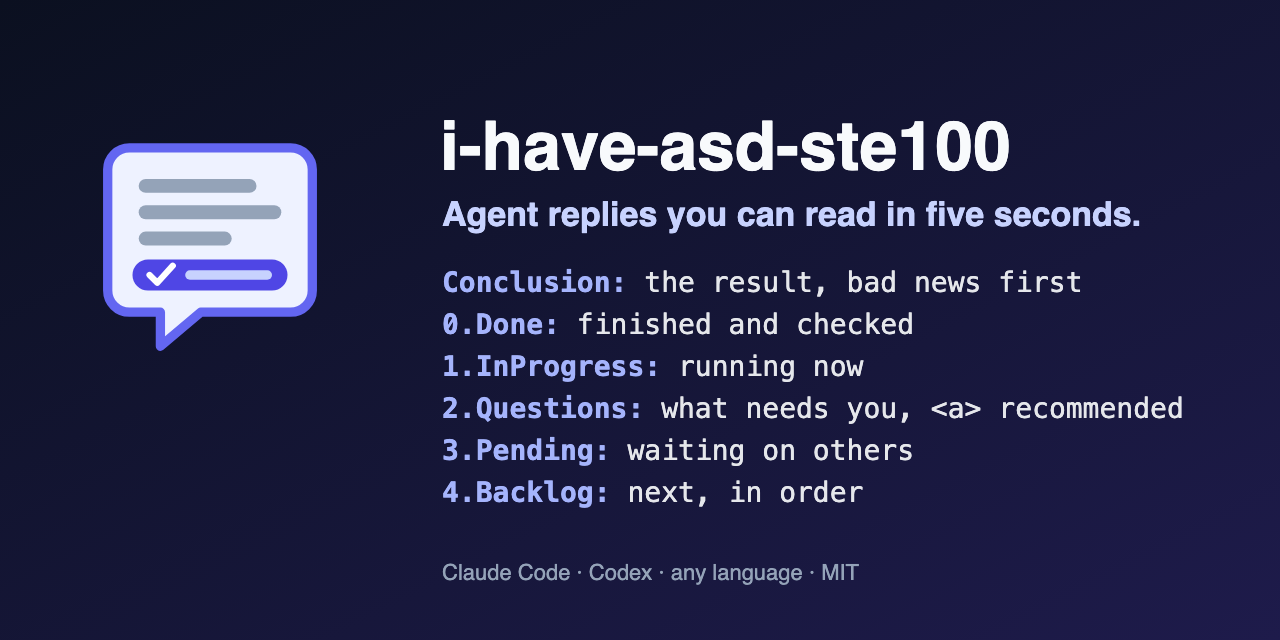
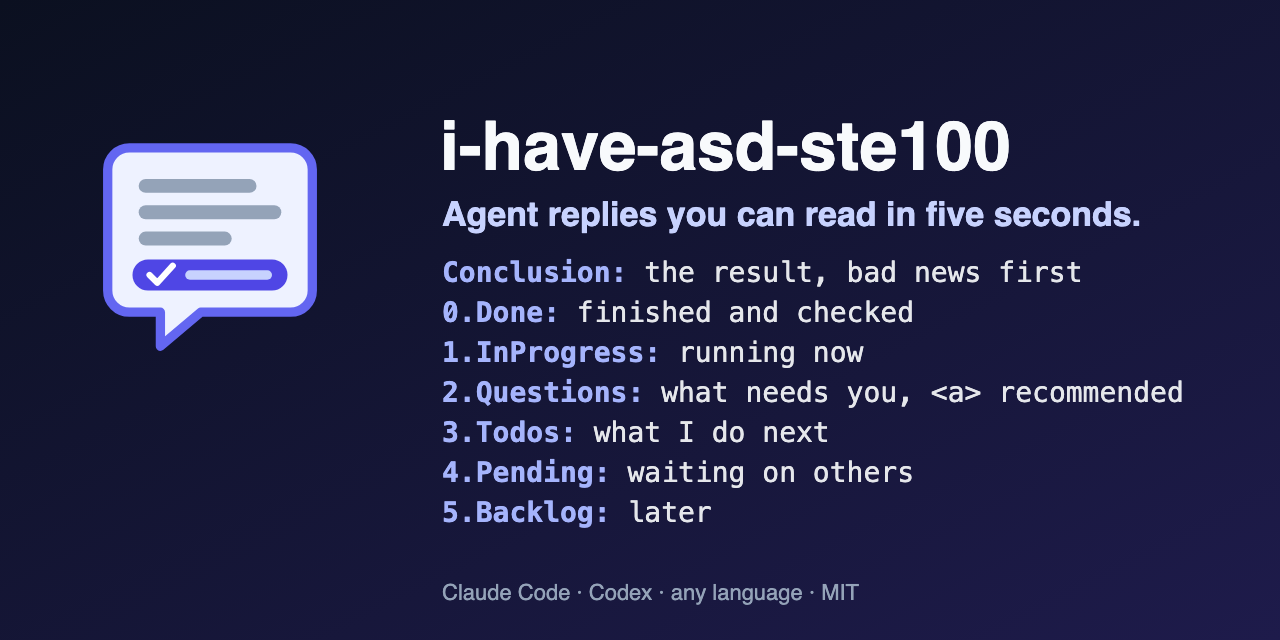
i-have-asd-ste100 0.5.0: six sections with Todos
- Sections, as chosen by the first user: 0.Done, 1.InProgress,
  2.Questions, 3.Todos, 4.Pending, 5.Backlog.
- 3.Todos is the work of the current task done next, in order;
  5.Backlog is only work deferred to later or optional.
- Rules, reminder, checker, tests, eval graders, examples in five
  languages, README, hero image and social preview follow the change.

Changed region(s): [[0.3438, 0.4062, 0.9375, 0.8438], [0.3438, 0.875, 0.6875, 0.9375]]

diff --git a/tests/test_check_reply.py b/tests/test_check_reply.py
@@ -20,11 +20,11 @@ FULL = """- **Fix:** `verifyToken` now reads the `Authorization` header.
     - `<a>` After CI passes.
     - (b) Now.
 
-**3.Pending:** Review from the other agent.
+**3.Todos:** Check `payment.spec.ts:88`.
 
-**4.Backlog:**
-  - Check `payment.spec.ts:88`.
-  - Update `jsonwebtoken`.
+**4.Pending:** Review from the other agent.
+
+**5.Backlog:** Update `jsonwebtoken` in a separate change.
 """
 
 
@@ -32,7 +32,7 @@ class ShapeTests(unittest.TestCase):
     def test_full_shape_passes(self):
         report = check(FULL)
         self.assertTrue(report["ok"], report)
-        self.assertEqual(report["stats"]["sections"], [0, 1, 2, 3, 4])
+        self.assertEqual(report["stats"]["sections"], [0, 1, 2, 3, 4, 5])
 
     def test_shipped_examples_pass_and_the_old_style_fails(self):
         for name in ("after-en.md", "after-vi.md", "after-zh.md", "after-ja.md", "after-es.md", "compare/3-i-have-asd-ste100.md"):
@@ -48,16 +48,16 @@ class ShapeTests(unittest.TestCase):
         self.assertTrue(check('```json\n{"status": "ok", "count": 3}\n```')["ok"])
 
     def test_sections_out_of_order_repeated_or_out_of_range_fail(self):
-        swapped = FULL.replace("**3.Pending:** Review from the other agent.\n\n", "").replace(
-            "**1.InProgress:** CI reruns the full suite.\n", "**3.Pending:** Review from the other agent.\n")
+        swapped = FULL.replace("**4.Pending:** Review from the other agent.\n\n", "").replace(
+            "**1.InProgress:** CI reruns the full suite.\n", "**4.Pending:** Review from the other agent.\n")
         self.assertNotEqual(swapped, FULL)
         self.assertFalse(check(swapped)["ok"])
-        self.assertFalse(check(FULL.replace("**4.Backlog:**", "**5.Backlog:**"))["ok"])
+        self.assertFalse(check(FULL.replace("**5.Backlog:**", "**6.Backlog:**"))["ok"])
         self.assertFalse(check(FULL.replace("**1.InProgress:**", "**0.InProgress:**"))["ok"])
 
     def test_empty_sections_must_be_left_out(self):
-        report = check(FULL.replace("**3.Pending:** Review from the other agent.", "**3.Pending:**"))
-        self.assertTrue(any("Section 3" in v and "empty" in v for v in report["violations"]))
+        report = check(FULL.replace("**4.Pending:** Review from the other agent.", "**4.Pending:**"))
+        self.assertTrue(any("Section 4" in v and "empty" in v for v in report["violations"]))
 
     def test_each_question_with_options_marks_exactly_one_recommended(self):
         none = FULL.replace("`<a>` After CI passes.", "(a) After CI passes.")
@@ -68,11 +68,11 @@ class ShapeTests(unittest.TestCase):
                 self.assertTrue(any("options marked" in v for v in check(text)["violations"]))
 
     def test_sections_need_a_blank_line_before_them_unless_bulleted(self):
-        packed = FULL.replace("    - (b) Now.\n\n**3.Pending:**", "    - (b) Now.\n**3.Pending:**")
+        packed = FULL.replace("    - (b) Now.\n\n**3.Todos:**", "    - (b) Now.\n**3.Todos:**")
         self.assertNotEqual(packed, FULL)
         self.assertTrue(any("blank line before each section" in v for v in check(packed)["violations"]))
         bulleted = FULL
-        for n in range(5):
+        for n in range(6):
             bulleted = bulleted.replace("\n\n**%d." % n, "\n- **%d." % n)
         self.assertNotEqual(bulleted, FULL)
         self.assertTrue(check(bulleted)["ok"], check(bulleted))
@@ -130,7 +130,7 @@ class MultilingualTests(unittest.TestCase):
 
     def test_fullwidth_colon_labels_and_section_numbers(self):
         report = check((ROOT / "examples/after-zh.md").read_text())
-        self.assertEqual(report["stats"]["sections"], [0, 2, 4])
+        self.assertEqual(report["stats"]["sections"], [0, 2, 3, 5])
 
 
 if __name__ == "__main__":

diff --git a/scripts/check_reply.py b/scripts/check_reply.py
@@ -11,7 +11,7 @@ emoji and square brackets, sentence length, openers and closers.
 It cannot judge meaning, accuracy or tone; a passing reply can still be wrong.
 
 Any language: the conclusion part is found by its structure (a bold "label:" line followed by list items
-whose bold labels start with a section number 0 to 4), so labels in any language work.
+whose bold labels start with a section number 0 to 5), so labels in any language work.
 Length is counted in words for scripts with spaces and in characters (converted to word equivalents)
 for scripts written without spaces.
 """
@@ -20,7 +20,7 @@ import json
 import re
 import sys
 
-SECTIONS = {0: "Done", 1: "InProgress", 2: "Questions", 3: "Pending", 4: "Backlog"}
+SECTIONS = {0: "Done", 1: "InProgress", 2: "Questions", 3: "Todos", 4: "Pending", 5: "Backlog"}
 MAX_CONCLUSION_WORDS = 25
 MAX_SENTENCE_WORDS = 25
 BODY_WORD_BUDGET = 250
@@ -128,7 +128,7 @@ def check(text):
             violations.append("The Conclusion line has %g words (limit %d)." % (units(conclusion), MAX_CONCLUSION_WORDS))
         numbers = [number for number, _, _, _ in sections]
         if numbers != sorted(set(numbers)) or any(n not in SECTIONS for n in numbers):
-            violations.append("Sections must be numbered 0 to 4, in order, each once; found %s." % numbers)
+            violations.append("Sections must be numbered 0 to 5, in order, each once; found %s." % numbers)
         if packed:
             violations.append("Put one blank line before each section; without it the line merges into the one above.")
         for number, label, line, subs in sections:

diff --git a/tests/test_plugin_files.py b/tests/test_plugin_files.py
@@ -51,7 +51,8 @@ class SkillTests(unittest.TestCase):
                         "## Tone", "## When to break the rules", "## Pre-send check"):
             self.assertIn(heading, self.text)
         positions = [self.text.index(label) for label in ("`**Conclusion:**`", "`**0.Done:**`", "`**1.InProgress:**`",
-                                                          "`**2.Questions:**`", "`**3.Pending:**`", "`**4.Backlog:**`")]
+                                                          "`**2.Questions:**`", "`**3.Todos:**`", "`**4.Pending:**`",
+                                                          "`**5.Backlog:**`")]
         self.assertEqual(positions, sorted(positions))
         self.assertIn("`<a>`", self.text)
         self.assertIn("Write the label words in the user's language", self.text)

diff --git a/tests/test_hooks.py b/tests/test_hooks.py
@@ -73,7 +73,7 @@ class HookTests(unittest.TestCase):
         out = self.run_hook({"hook_event_name": "UserPromptSubmit", "session_id": "a", "prompt": "fix the bug"})
         self.assertEqual(out.count("\n"), 1)
         self.assertLess(len(out.encode()), 400)
-        self.assertIn("0.Done, 1.InProgress, 2.Questions, 3.Pending, 4.Backlog", out)
+        self.assertIn("0.Done, 1.InProgress, 2.Questions, 3.Todos, 4.Pending, 5.Backlog", out)
         self.assertTrue(out.isascii())
 
     def test_stop_and_restart_work_per_session(self):

diff --git a/README.md b/README.md
@@ -6,13 +6,13 @@
 
 <p align="center">
   <strong>Agent replies you can read in five seconds.</strong><br>
-  Key-first bullets. One-sentence conclusion. Five numbered sections. Any language.
+  Key-first bullets. One-sentence conclusion. Six numbered sections. Any language.
 </p>
 
 <p align="center">
   <a href="https://github.com/hiendang7613/i-have-asd-ste100/actions/workflows/ci.yml"><img alt="CI" src="https://github.com/hiendang7613/i-have-asd-ste100/actions/workflows/ci.yml/badge.svg"></a>
   <a href="LICENSE"><img alt="License: MIT" src="https://img.shields.io/badge/license-MIT-4F46E5"></a>
-  <img alt="Version 0.4.1" src="https://img.shields.io/badge/version-0.4.1-4F46E5">
+  <img alt="Version 0.5.0" src="https://img.shields.io/badge/version-0.5.0-4F46E5">
   <img alt="Claude Code and Codex" src="https://img.shields.io/badge/works%20with-Claude%20Code%20%7C%20Codex-0F172A">
   <img alt="Any language" src="https://img.shields.io/badge/replies-any%20language-F59E0B">
 </p>
@@ -32,7 +32,7 @@
 
 Coding agents bury the one thing you need: what failed, what needs your OK, what is still running.
 This plugin gives every reply the same shape. Facts come first, one per line.
-A one-sentence conclusion and five numbered sections close the reply. Your eye learns where to look.
+A one-sentence conclusion and six numbered sections close the reply. Your eye learns where to look.
 
 <a name="install"></a>
 
@@ -75,9 +75,11 @@ Every reply that has more than one fact ends like this:
     - `<a>` After CI passes.
     - (b) Now.
 
-**3.Pending:** Review from the other agent.
+**3.Todos:** Check `payment.spec.ts:88`.
 
-**4.Backlog:** Check `payment.spec.ts:88`, then update `jsonwebtoken`.
+**4.Pending:** Review from the other agent.
+
+**5.Backlog:** Update `jsonwebtoken` in a separate change.
 
 | Part | What it holds | Who acts |
 |---|---|---|
@@ -85,10 +87,11 @@ Every reply that has more than one fact ends like this:
 | **0.Done** | Finished and checked work, with its evidence | The agent, already |
 | **1.InProgress** | Work running now: builds, jobs, other agents | The agent or a tool, now |
 | **2.Questions** | Everything that needs you: choices, and approvals that start with "Approve:" | You |
-| **3.Pending** | Work waiting for someone or something else | A third party |
-| **4.Backlog** | Work not started yet, in order; the first item is next | The agent, later |
+| **3.Todos** | Work in the current task the agent does next, in order | The agent, next |
+| **4.Pending** | Work waiting for someone or something else | A third party |
+| **5.Backlog** | Work deferred to later or optional, outside the current task | The agent, later |
 
-- **Each section starts its own line, after a blank line.** Empty sections disappear and numbers never move; 3 is always Pending, so you can say "answer 2, Q1".
+- **Each section starts its own line, after a blank line.** Empty sections disappear and numbers never move; 4 is always Pending, so you can say "answer 2, Q1".
 - **The recommended option** is written as `<a>` in code; the other options are (b), (c). You answer with one letter.
 - **Small answers stay small:** one fact, one sentence. Code-only, JSON-only and one-command requests get exactly that.
 
@@ -116,7 +119,7 @@ Task: *"The login test fails for the new client. Fix it and tell me where we are
 
 | | Default agent | [i-have-adhd](https://github.com/ayghri/i-have-adhd) | i-have-asd-ste100 |
 |---|---|---|---|
-| Words (markup not counted) | 166 | 82 | 84 |
+| Words (markup not counted) | 166 | 82 | 87 |
 | Longest sentence | 57 words | 18 words | 15 words |
 | Where the approval is | Mid-paragraph | First and last line ("Next:") | 2.Questions, as "Approve:" with options |
 | The failing test in the summary | "probably unrelated" | Inside a numbered step | Conclusion line: "cause not checked" |
@@ -156,9 +159,9 @@ The samples are illustrative: written by hand from each project's published rule
 >     - `<a>` Yes, after I check `payment.spec.ts:88`.
 >     - (b) Yes, now.
 >
-> **4.Backlog:**
->   - `payment.spec.ts:88` fails; I did not change payment code.
->   - `jsonwebtoken` 8.5.1 is old; update it after the deploy.
+> **3.Todos:** Check why `payment.spec.ts:88` fails; I did not change payment code.
+>
+> **5.Backlog:** `jsonwebtoken` 8.5.1 is old; update it after the deploy.
 
 Full files: [examples/compare/](examples/compare/).
 </details>
@@ -174,13 +177,13 @@ The section numbers are the same in every language, so a script can find section
 The agent writes the label words in your language and keeps them identical for the session. The numbers never change.
 The rules name no language, so they never pull a reply into English.
 
-| Language | Conclusion · 0 · 1 · 2 · 3 · 4 | Example |
+| Language | Conclusion · 0 · 1 · 2 · 3 · 4 · 5 | Example |
 |---|---|---|
-| English | Conclusion · Done · InProgress · Questions · Pending · Backlog | [after-en.md](examples/after-en.md) |
-| Tiếng Việt | Kết luận · Đã xong · Đang làm · Câu hỏi · Đang chờ · Tồn đọng | [after-vi.md](examples/after-vi.md) |
-| 中文 | 结论 · 已完成 · 进行中 · 问题 · 等待中 · 待办 | [after-zh.md](examples/after-zh.md) |
-| 日本語 | 結論 · 完了 · 進行中 · 質問 · 保留 · バックログ | [after-ja.md](examples/after-ja.md) |
-| Español | Conclusión · Hecho · En curso · Preguntas · Pendiente · Por hacer | [after-es.md](examples/after-es.md) |
+| English | Conclusion · Done · InProgress · Questions · Todos · Pending · Backlog | [after-en.md](examples/after-en.md) |
+| Tiếng Việt | Kết luận · Đã xong · Đang làm · Câu hỏi · Việc cần làm · Đang chờ · Tồn đọng | [after-vi.md](examples/after-vi.md) |
+| 中文 | 结论 · 已完成 · 进行中 · 问题 · 待办 · 等待中 · 以后再做 | [after-zh.md](examples/after-zh.md) |
+| 日本語 | 結論 · 完了 · 進行中 · 質問 · やること · 保留 · バックログ | [after-ja.md](examples/after-ja.md) |
+| Español | Conclusión · Hecho · En curso · Preguntas · Por hacer · Pendiente · Más adelante | [after-es.md](examples/after-es.md) |
 
 Sentence length is measured in words where words have spaces, and in characters for Chinese and Japanese (about 1.5 characters per English word).
 The maintainers wrote these examples. Native speakers: [fix or add your language](.github/ISSUE_TEMPLATE/language.yml).
@@ -190,7 +193,7 @@ The maintainers wrote these examples. Native speakers: [fix or add your language
 | | i-have-adhd | i-have-asd-ste100 |
 |---|---|---|
 | Best for | Starting the next action | Decisions, approvals and status across many agent reports |
-| Reply shape | Next action first, numbered steps, one next step at the end | Key-first bullets, a one-sentence conclusion, five numbered sections |
+| Reply shape | Next action first, numbered steps, one next step at the end | Key-first bullets, a one-sentence conclusion, six numbered sections |
 | Turned on | By command; always-on with an opt-in flag | On by default after install; `stop ste mode` or an opt-out file |
 | Drift control | Rules at session start | Session start plus one reminder line per prompt |
 | Languages | Rules in English; README in 10 languages | Language-neutral rules; labels in your language; examples in 5 languages |

diff --git a/skills/i-have-asd-ste100/SKILL.md b/skills/i-have-asd-ste100/SKILL.md
@@ -1,6 +1,6 @@
 ---
 name: i-have-asd-ste100
-description: 'Make every reply short, plain and fast to scan in any language: key-first bullets, then a one-sentence Conclusion and fixed numbered sections (0.Done, 1.InProgress, 2.Questions, 3.Pending, 4.Backlog). Rules adapted from ASD-STE100 and plain-language principles. On by default after install; invoke by hand with /i-have-asd-ste100:i-have-asd-ste100; "stop ste mode" turns it off for a session.'
+description: 'Make every reply short, plain and fast to scan in any language: key-first bullets, then a one-sentence Conclusion and fixed numbered sections (0.Done, 1.InProgress, 2.Questions, 3.Todos, 4.Pending, 5.Backlog). Rules adapted from ASD-STE100 and plain-language principles. On by default after install; invoke by hand with /i-have-asd-ste100:i-have-asd-ste100; "stop ste mode" turns it off for a session.'
 disable-model-invocation: true
 license: MIT
 metadata:
@@ -18,15 +18,16 @@ These rules apply to every reply for the rest of the session, in every language.
 
 ## The shape
 
-1. **Body first.** Give only what the reader needs to trust the conclusion: facts, evidence, steps. Use at most five bullets or short paragraphs, about 250 words or the same reading time in the user's language. Put longer detail in a file and give its path.
+1. **Body first.** Give only what the reader needs to trust the conclusion: facts, evidence, steps. Use at most five bullets or short paragraphs, about 250 words or the same reading time. Put longer detail in a file and give its path.
 2. **Conclusion part last.** After one blank line, write `**Conclusion:**` and the result in one sentence. Bad news first: failure, skip, blocker, unverified work. Then these sections, each starting its own line with its bold label, one blank line between sections, always in this order:
    - `**0.Done:**` work finished and checked, with its evidence.
    - `**1.InProgress:**` work running now, and who runs it.
    - `**2.Questions:**` everything that needs the user, one sub-item per question: `**Q1.**`, `**Q2.**`. Start an approval with "Approve:". Give options as sub-items: the recommended one as `<a>` in a code span, the others as (b), (c).
-   - `**3.Pending:**` work waiting for someone or something else, and on what.
-   - `**4.Backlog:**` work not started yet, in order; the first item is what you do next.
+   - `**3.Todos:**` work in the current task you will do next, in order.
+   - `**4.Pending:**` work waiting for someone or something else, and on what.
+   - `**5.Backlog:**` work deferred to later or optional, outside the current task.
 
-   Leave out an empty section, but never renumber: 3 is always Pending. Write the label words in the user's language and keep them identical in the session. Put more than one item as indented sub-items. If only the result needs saying, write only the Conclusion line.
+   Leave out an empty section, but never renumber: 4 is always Pending. Write the label words in the user's language and keep them identical in the session. Put more than one item as indented sub-items. If only the result needs saying, write only the Conclusion line.
 3. **The conclusion part stands alone.** Name the thing, never "see above". Do not repeat the body in it.
 4. **Small answers stay small.** A one-fact answer or a yes/no is one or two sentences, with no conclusion part.
 5. **Exact output wins.** When the user asks for only code, JSON, one command, a commit message or a file, give exactly that.
@@ -40,7 +41,7 @@ These rules apply to every reply for the rest of the session, in every language.
 3. Put paths, commands, IDs, settings and quoted errors in `code`, and nothing else.
 4. Bold only labels and at most one key phrase per bullet. Never wrap your own reply in a code block.
 5. Use a numbered list for steps in order and bullets for parallel items, at most two levels. Show at most five items the reader must act on.
-6. Use a table only to compare three or more items on two or more points, with at most four short columns. Use no headings, rules or boxes in a normal reply.
+6. Use a table only to compare three or more items, with at most four short columns. Use no headings, rules or boxes in a normal reply.
 
 ## Sentences
 

diff --git a/CHANGELOG.md b/CHANGELOG.md
@@ -1,5 +1,9 @@
 # Changelog
 
+## 0.5.0 — 2026-10-02
+- Six sections, as chosen by the first user: 0.Done, 1.InProgress, 2.Questions, 3.Todos, 4.Pending, 5.Backlog.
+- 3.Todos holds the work of the current task the agent does next, in order; 5.Backlog now holds only work deferred to later or optional. 4 is always Pending.
+
 ## 0.4.1 — 2026-10-02
 - Sections start their own line with the number first (`**0.Done:**`), not as list items, with one blank line between sections. Without the blank line, Markdown merges a section into the list above it (checked with the GitHub Markdown API); the checker now reports that case.
 

diff --git a/examples/after-ja.md b/examples/after-ja.md
@@ -10,6 +10,6 @@
     - `<a>` はい、今確認する。
     - (b) マージ後に確認する。
 
-**4.バックログ：**
-  - `payment.spec.ts:88` は失敗中。決済のコードは変更していません。
-  - `jsonwebtoken` 8.5.1 は古いので、決済の確認後に更新します。
+**3.やること：** `payment.spec.ts:88` の失敗原因を調べる。決済のコードは変更していません。
+
+**5.バックログ：** `jsonwebtoken` 8.5.1 は古いので、別の変更で更新します。

diff --git a/examples/after-vi.md b/examples/after-vi.md
@@ -10,6 +10,6 @@
     - `<a>` Có, kiểm tra ngay.
     - (b) Sau khi gộp.
 
-**4.Tồn đọng:**
-  - `payment.spec.ts:88` lỗi; tôi không sửa mã thanh toán.
-  - `jsonwebtoken` 8.5.1 đã cũ; cập nhật sau khi kiểm tra test thanh toán.
+**3.Việc cần làm:** Tìm nguyên nhân `payment.spec.ts:88` lỗi; tôi không sửa mã thanh toán.
+
+**5.Tồn đọng:** `jsonwebtoken` 8.5.1 đã cũ; cập nhật trong một thay đổi riêng.

diff --git a/examples/after-es.md b/examples/after-es.md
@@ -10,6 +10,6 @@
     - `<a>` Sí, ahora.
     - (b) Después de fusionar.
 
-**4.Por hacer:**
-  - `payment.spec.ts:88` falla; no cambié el código de pagos.
-  - `jsonwebtoken` 8.5.1 está desactualizado; actualizarlo tras revisar los pagos.
+**3.Por hacer:** Buscar por qué falla `payment.spec.ts:88`; no cambié el código de pagos.
+
+**5.Más adelante:** `jsonwebtoken` 8.5.1 está desactualizado; actualizarlo en un cambio aparte.

diff --git a/examples/after-zh.md b/examples/after-zh.md
@@ -10,6 +10,6 @@
     - `<a>` 是，现在检查。
     - (b) 合并之后再检查。
 
-**4.待办：**
-  - `payment.spec.ts:88` 失败；我没有修改支付代码。
-  - `jsonwebtoken` 8.5.1 已过时；检查支付测试后再更新。
+**3.待办：** 查明 `payment.spec.ts:88` 失败的原因；我没有修改支付代码。
+
+**5.以后再做：** `jsonwebtoken` 8.5.1 已过时；另开一个变更来更新。

diff --git a/examples/compare/3-i-have-asd-ste100.md b/examples/compare/3-i-have-asd-ste100.md
@@ -10,6 +10,6 @@
     - `<a>` Yes, after I check `payment.spec.ts:88`.
     - (b) Yes, now.
 
-**4.Backlog:**
-  - `payment.spec.ts:88` fails; I did not change payment code.
-  - `jsonwebtoken` 8.5.1 is old; update it after the deploy.
+**3.Todos:** Check why `payment.spec.ts:88` fails; I did not change payment code.
+
+**5.Backlog:** `jsonwebtoken` 8.5.1 is old; update it after the deploy.
